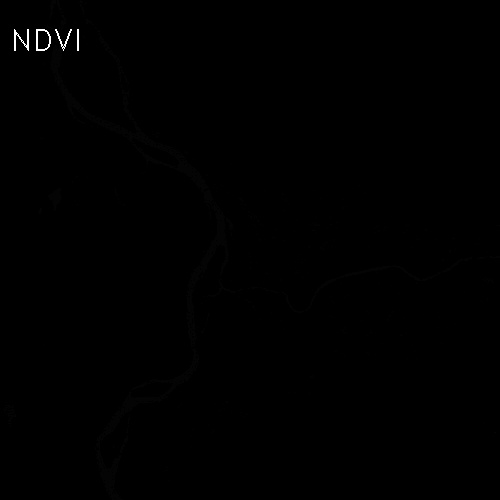
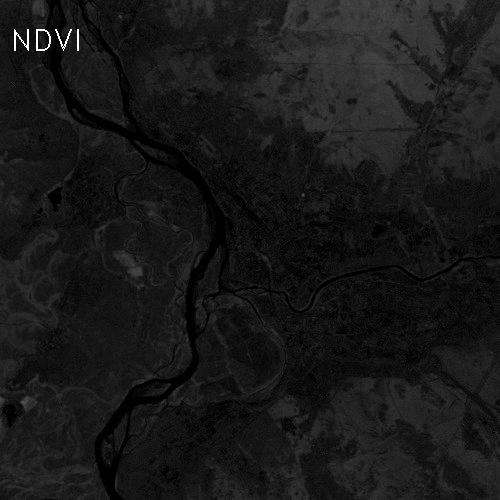
fix ndvi

diff --git a/lr2/src/main.cpp b/lr2/src/main.cpp
@@ -11,38 +11,42 @@ using namespace cv;
 
 int main(){
 
-	Mat red = imread("../data/RED.jpg",CV_8UC1);
-	Mat nir = imread("../data/NIR.jpg",CV_8UC1);
+	Mat red = imread("../data/RED.jpg");
+	Mat nir = imread("../data/NIR.jpg");
 
 	if(red.empty() || nir.empty()) {
 		std::cout << "Error: the image has been incorrectly loaded." << endl;
 		return 0; 
 	} 
 
-	Mat nirMinusRed  = Mat::zeros(500, 500, CV_8UC1);;
-	Mat nirPlusRed =  Mat::zeros(500, 500, CV_8UC1);;
-	Mat ndvi = Mat::zeros(500, 500, CV_32FC1);
+	//no proper way to load 32f by default
+	Mat red32f, nir32f, ndvi;
+	red.convertTo(red32f, CV_32F, 1.0/255.0);
+	nir.convertTo(nir32f, CV_32F, 1.0/255.0);
+	
+	ndvi = (nir32f-red32f) / (nir32f+red32f);
+	Mat nirMinusRed = nir32f-red32f;
+	Mat nirPlusRed = nir32f+red32f;
 
-   	for (int i = 0; i < red.rows; i++){
-		for (int j = 0; j < red.cols; j++){
-			nirMinusRed.at<int>(j,i) = nir.at<int>(j,i) - red.at<int>(j,i);
-			nirPlusRed.at<int>(j,i) = red.at<int>(j,i) + nir.at<int>(j,i);
-		}
-    }
-    ndvi = nirMinusRed / nirPlusRed;
-
-	putText(nirMinusRed, "NIR - RED", Point(10, 50), FONT_HERSHEY_DUPLEX, 1.0, CV_RGB(55, 255, 255));
-	putText(nirPlusRed, "RED + NIR", Point(10, 50), FONT_HERSHEY_DUPLEX, 1.0, CV_RGB(118, 185, 0));
+	putText(nirMinusRed, "NIR - RED", Point(10, 50), FONT_HERSHEY_DUPLEX, 1.0, CV_RGB(255, 255, 255));
+	putText(nirPlusRed, "RED + NIR", Point(10, 50), FONT_HERSHEY_DUPLEX, 1.0, CV_RGB(255	, 255, 255));
 	putText(ndvi, "NDVI", Point(10, 50), FONT_HERSHEY_DUPLEX, 1.0, CV_RGB(255, 255, 255));
 
-	imshow("NIR-RED", nirMinusRed);
-	imshow("NIR+RED", nirPlusRed);
-	imshow("NDVI", ndvi);
+	nirMinusRed.convertTo(nirMinusRed, CV_8U, 255.0);
+	nirPlusRed.convertTo(nirPlusRed, CV_8U, 255.0);
+	ndvi.convertTo(ndvi, CV_8U, 255.0);
 
-	// imwrite("NIR-RED.jpg", nirMinusRed);
-	// imwrite("RED+NIR.jpg", nirPlusRed);
+	//applyColorMap(ndvi, ndvi, COLORMAP_HOT);
+
+	imshow("nir-red", nirMinusRed);
+	imshow("nir+red", nirPlusRed);
+	imshow("ndvi", ndvi);
+
+	imwrite("NIR-RED.jpg", nirMinusRed);
+	imwrite("RED+NIR.jpg", nirPlusRed);
 	imwrite("NDVI.jpg", ndvi);
-	waitKey(0);
 
+
+	waitKey(0);
 	return 0;
 }

diff --git a/lr2/src/main 2.cpp b/lr2/src/main 2.cpp
@@ -1,0 +1,53 @@
+#include <iostream>
+#include <fstream>
+#include <opencv2/core.hpp>
+#include <opencv2/highgui.hpp>
+#include <opencv2/imgproc/imgproc.hpp>
+#include <opencv2/opencv.hpp>
+
+using namespace std;
+using namespace cv;
+
+int main(){
+
+	Mat red = imread("../data/RED.jpg",CV_8UC1);
+	Mat nir = imread("../data/NIR.jpg",CV_8UC1);
+
+	if(red.empty() || nir.empty()) {
+		std::cout << "Error: the image has been incorrectly loaded." << endl;
+		return 0; 
+	} 
+
+	// Mat red32f  = Mat::zeros(500, 500, CV_32F);;
+	// Mat nir32f =  Mat::zeros(500, 500, CV_32F);;
+	// red.convertTo(red32f, CV_32FC1);
+	// nir.convertTo(nir32f, CV_32FC1);
+
+	Mat nirMinusRed  = Mat::zeros(500, 500, CV_8UC1);;
+	Mat nirPlusRed =  Mat::zeros(500, 500, CV_8UC1);;
+	Mat ndvi = Mat::zeros(500, 500, CV_8UC1);
+
+   	for (int i = 0; i < red.rows; i++){
+		for (int j = 0; j < red.cols; j++){
+			nirMinusRed.at<int>(j,i) = nir.at<int>(j,i) - red.at<int>(j,i);
+			nirPlusRed.at<int>(j,i) = red.at<int>(j,i) + nir.at<int>(j,i);
+			// ndvi.at<int>(j,i) = (nir.at<int>(j,i) - red.at<int>(j,i)) / (red.at<int>(j,i) + nir.at<int>(j,i)+0.001);
+		}
+    }
+    ndvi = nirMinusRed / nirPlusRed;
+    	applyColorMap(nirMinusRed, nirMinusRed, COLORMAP_COOL);
+	putText(nirMinusRed, "NIR - RED", Point(10, 50), FONT_HERSHEY_DUPLEX, 1.0, CV_RGB(55, 255, 255));
+	putText(nirPlusRed, "RED + NIR", Point(10, 50), FONT_HERSHEY_DUPLEX, 1.0, CV_RGB(118, 185, 0));
+	putText(ndvi, "NDVI", Point(10, 50), FONT_HERSHEY_DUPLEX, 1.0, CV_RGB(255, 255, 255));
+
+	imshow("NIR-RED", nirMinusRed);
+	imshow("NIR+RED", nirPlusRed);
+	imshow("NDVI", ndvi);
+
+	// imwrite("NIR-RED.jpg", nirMinusRed);
+	// imwrite("RED+NIR.jpg", nirPlusRed);
+	imwrite("NDVI.jpg", ndvi);
+	waitKey(0);
+
+	return 0;
+}

diff --git a/lr1/src/main.cpp b/lr1/src/main.cpp
@@ -108,7 +108,7 @@ int main(){
 	p.printDelta();
 
 	Mat imgOriginal = imread("../data/LE07_L2SP_131024_20021005_20200916_02_T1_SR_B1.TIF", IMREAD_COLOR);
-
+	cout << "type"<<imgOriginal.type()<< endl;
 	if(imgOriginal.empty()) {
 		cout << "Error: the image has been incorrectly loaded." << endl;
 		return 0; 
